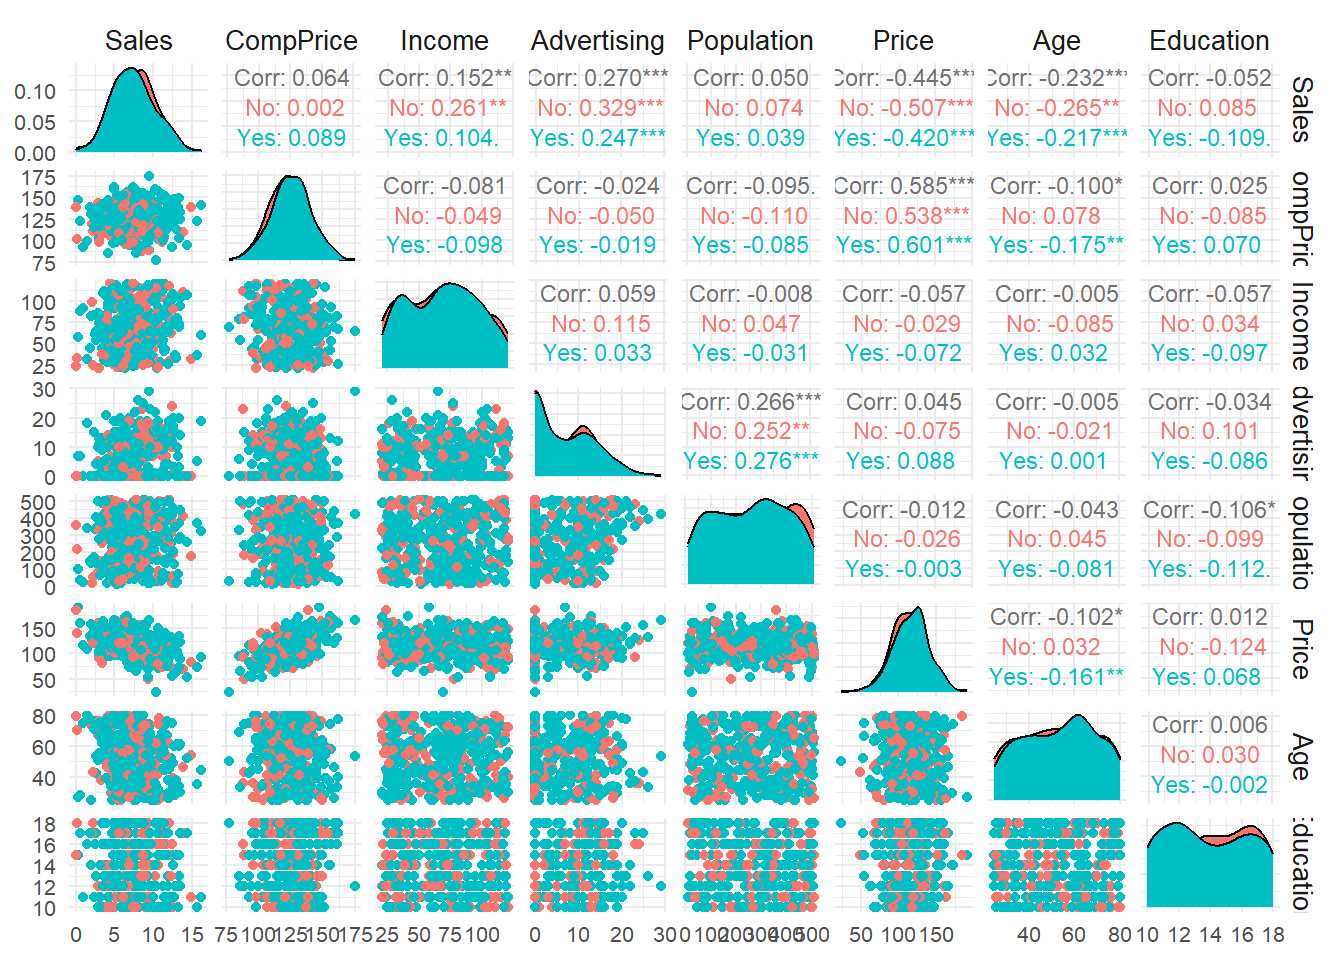
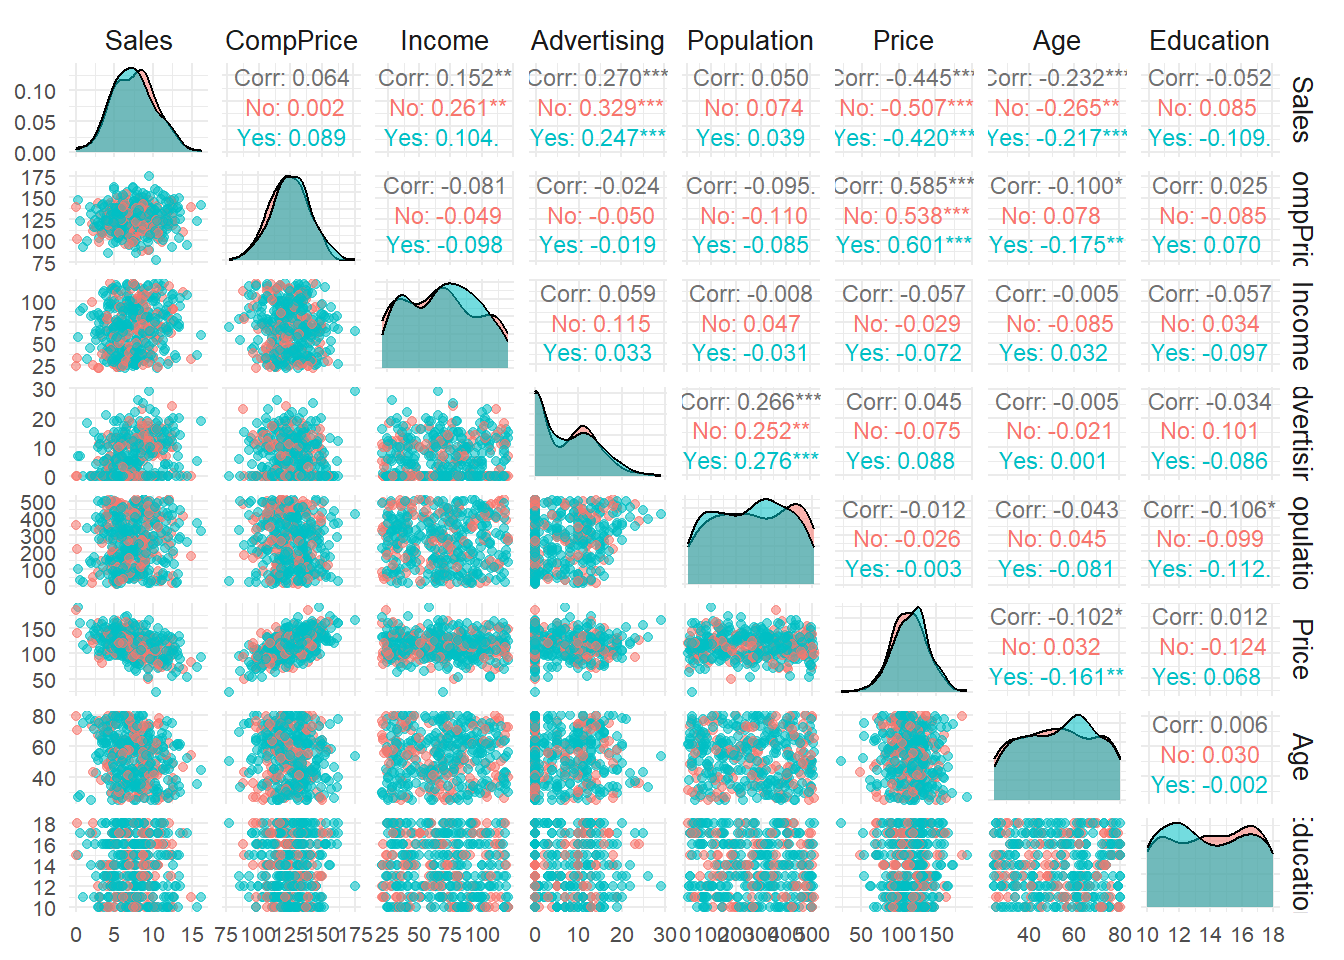
ajustes finais

Changed region(s): [[0.0312, 0.0625, 0.9688, 0.9688]]

diff --git a/Relatorio_Carseats.html b/Relatorio_Carseats.html
@@ -115,7 +115,7 @@ window.Quarto = {
   <li><a href="#análise-exploratória-dos-dados" id="toc-análise-exploratória-dos-dados" class="nav-link" data-scroll-target="#análise-exploratória-dos-dados"><span class="header-section-number">2.1</span> Análise exploratória dos dados</a>
   <ul class="collapse">
   <li><a href="#comentários" id="toc-comentários" class="nav-link" data-scroll-target="#comentários"><span class="header-section-number">2.1.1</span> Comentários:</a></li>
-  <li><a href="#sec-GGally" id="toc-sec-GGally" class="nav-link" data-scroll-target="#sec-GGally"><span class="header-section-number">2.1.2</span> Análise de Correlação</a></li>
+  <li><a href="#análise-de-correlação" id="toc-análise-de-correlação" class="nav-link" data-scroll-target="#análise-de-correlação"><span class="header-section-number">2.1.2</span> Análise de Correlação</a></li>
   </ul></li>
   </ul></li>
   <li><a href="#modelo-1-com-todas-as-variáveis" id="toc-modelo-1-com-todas-as-variáveis" class="nav-link" data-scroll-target="#modelo-1-com-todas-as-variáveis"><span class="header-section-number">3</span> Modelo 1 (Com todas as variáveis)</a>
@@ -131,7 +131,7 @@ window.Quarto = {
   <li><a href="#medida-aic" id="toc-medida-aic" class="nav-link" data-scroll-target="#medida-aic"><span class="header-section-number">4.1</span> Medida AIC</a></li>
   <li><a href="#comparação-de-modelos-encaixados-anova" id="toc-comparação-de-modelos-encaixados-anova" class="nav-link" data-scroll-target="#comparação-de-modelos-encaixados-anova"><span class="header-section-number">4.2</span> Comparação de modelos encaixados (ANOVA)</a></li>
   </ul></li>
-  <li><a href="#modelo-selecionado-modelo6" id="toc-modelo-selecionado-modelo6" class="nav-link" data-scroll-target="#modelo-selecionado-modelo6"><span class="header-section-number">5</span> Modelo selecionado (modelo6)</a>
+  <li><a href="#grafico-outliers" id="toc-grafico-outliers" class="nav-link" data-scroll-target="#grafico-outliers"><span class="header-section-number">5</span> Modelo selecionado (modelo6)</a>
   <ul class="collapse">
   <li><a href="#análises-dos-pressupostos-e-comentários" id="toc-análises-dos-pressupostos-e-comentários" class="nav-link" data-scroll-target="#análises-dos-pressupostos-e-comentários"><span class="header-section-number">5.1</span> Análises dos pressupostos e Comentários</a></li>
   </ul></li>
@@ -207,7 +207,10 @@ window.Quarto = {
 <span id="cb4-2"><a href="#cb4-2" aria-hidden="true" tabindex="-1"></a></span>
 <span id="cb4-3"><a href="#cb4-3" aria-hidden="true" tabindex="-1"></a><span class="fu">write.table</span>(Carseats , <span class="at">file=</span><span class="st">"dados_carseats.csv"</span>, <span class="at">sep=</span><span class="st">";"</span>, <span class="at">dec=</span><span class="st">","</span>) <span class="co">#criando arquivo .csv no local de </span></span></code><button title="Copiar para a área de transferência" class="code-copy-button"><i class="bi"></i></button></pre></div>
 </div>
-<p>Descrição da Base de Dados: Número de observações: 400 Variável Resposta: - <code>Sales</code>: Vendas de cadeirinhas de carro em diferentes locais. (Milhares de unidades)</p>
+<p>Descrição da Base de Dados:<br>
+Número de observações: 400<br>
+Variável Resposta: - <code>Sales</code>: Vendas de cadeirinhas de carro em diferentes locais. (Milhares de unidades)<br>
+</p>
 <p>Variáveis Explicativas: - <code>CompPrice</code>: Preço da cadeirinha na loja concorrente. (em dólares).<br>
 - <code>Income</code>: Renda média dos consumidores naquela região. (em milhares de dólares).<br>
 - <code>Advertising</code>: Valor gasto em publicidade para aquela região (em milhares de dólares).<br>
@@ -456,17 +459,17 @@ window.Quarto = {
 </div>
 <section id="comentários" class="level3" data-number="2.1.1">
 <h3 data-number="2.1.1" class="anchored" data-anchor-id="comentários"><span class="header-section-number">2.1.1</span> Comentários:</h3>
-<p>De acordo com a tabela é possível observar que não há ausência de dados. O conjunto contém tanto as variáveis numéricas (como <code>Sales</code>, <code>CompPrice</code>, <code>Income</code>, <code>Advertising</code>, <code>Population</code>, <code>Price</code>, <code>Age</code>) quanto as categóricas (como <code>ShelveLoc</code>, <code>Urban</code> e <code>US</code>). As variáveis numéricas foram descritas por meio de estatísticas como média, mediana, desvio padrão e percentis, fornecendo uma visão clara sobre sua distribuição.</p>
+<p>De acordo com a tabela é possível observar que não há ausência de dados. O conjunto contém tanto as variáveis numéricas (como <code>Sales</code>, <code>CompPrice</code>, <code>Income</code>, <code>Advertising</code>, <code>Population</code>, <code>Price</code>, <code>Age</code>) quanto as categóricas (como <code>ShelveLoc</code>, <code>Urban</code> e <code>US</code>). As variáveis numéricas foram descritas por meio de estatísticas como média, mediana, desvio padrão e percentis, fornecendo uma visão clara sobre sua distribuição. Em relação aos outliers, eles podem ser observados no gráfico <em>Residuals vs Leverage</em> <a href="#grafico-outliers">grafico-outliers</a>.</p>
 </section>
-<section id="sec-GGally" class="level3" data-number="2.1.2">
-<h3 data-number="2.1.2" class="anchored" data-anchor-id="sec-GGally"><span class="header-section-number">2.1.2</span> Análise de Correlação</h3>
+<section id="análise-de-correlação" class="level3" data-number="2.1.2">
+<h3 data-number="2.1.2" class="anchored" data-anchor-id="análise-de-correlação"><span class="header-section-number">2.1.2</span> Análise de Correlação</h3>
 <div class="cell">
 <div class="sourceCode cell-code" id="cb6"><pre class="sourceCode r code-with-copy"><code class="sourceCode r"><span id="cb6-1"><a href="#cb6-1" aria-hidden="true" tabindex="-1"></a><span class="fu">install.packages</span>(<span class="st">"GGally"</span>, <span class="at">quite=</span><span class="cn">TRUE</span>)</span></code><button title="Copiar para a área de transferência" class="code-copy-button"><i class="bi"></i></button></pre></div>
 <div class="cell-output cell-output-stdout">
 <pre><code>package 'GGally' successfully unpacked and MD5 sums checked
 
 The downloaded binary packages are in
-    C:\Users\Notebook\AppData\Local\Temp\Rtmp2h3han\downloaded_packages</code></pre>
+    C:\Users\Notebook\AppData\Local\Temp\RtmpIXBvVI\downloaded_packages</code></pre>
 </div>
 <div class="sourceCode cell-code" id="cb8"><pre class="sourceCode r code-with-copy"><code class="sourceCode r"><span id="cb8-1"><a href="#cb8-1" aria-hidden="true" tabindex="-1"></a><span class="fu">library</span>(GGally)<span class="co"># Pacote para função ggpairs</span></span>
 <span id="cb8-2"><a href="#cb8-2" aria-hidden="true" tabindex="-1"></a><span class="fu">library</span>(ggplot2)</span>
@@ -476,7 +479,7 @@ The downloaded binary packages are in
 <span id="cb8-6"><a href="#cb8-6" aria-hidden="true" tabindex="-1"></a></span>
 <span id="cb8-7"><a href="#cb8-7" aria-hidden="true" tabindex="-1"></a>graf1 <span class="ot">&lt;-</span> <span class="fu">ggpairs</span>(dados, </span>
 <span id="cb8-8"><a href="#cb8-8" aria-hidden="true" tabindex="-1"></a>                 <span class="at">columns =</span> <span class="fu">c</span>(<span class="st">"Sales"</span>, <span class="st">"CompPrice"</span>, <span class="st">"Income"</span>, <span class="st">"Advertising"</span>, <span class="st">"Population"</span>, <span class="st">"Price"</span>, <span class="st">"Age"</span>, <span class="st">"Education"</span>), </span>
-<span id="cb8-9"><a href="#cb8-9" aria-hidden="true" tabindex="-1"></a>                 ggplot2<span class="sc">::</span><span class="fu">aes</span>(<span class="at">colour=</span>US), </span>
+<span id="cb8-9"><a href="#cb8-9" aria-hidden="true" tabindex="-1"></a>                 ggplot2<span class="sc">::</span><span class="fu">aes</span>(<span class="at">colour=</span>US, <span class="at">alpha =</span> <span class="fl">0.4</span>),</span>
 <span id="cb8-10"><a href="#cb8-10" aria-hidden="true" tabindex="-1"></a>                 <span class="at">upper =</span> <span class="fu">list</span>(<span class="at">continuous =</span> <span class="fu">wrap</span>(<span class="st">"cor"</span>, <span class="at">size =</span> <span class="dv">3</span>)), </span>
 <span id="cb8-11"><a href="#cb8-11" aria-hidden="true" tabindex="-1"></a>                 <span class="at">lower =</span> <span class="fu">list</span>(<span class="at">continuous =</span> <span class="st">"points"</span>)) <span class="sc">+</span>            </span>
 <span id="cb8-12"><a href="#cb8-12" aria-hidden="true" tabindex="-1"></a>  <span class="fu">theme_minimal</span>() <span class="sc">+</span>                                              </span>
@@ -496,7 +499,7 @@ The downloaded binary packages are in
 <span id="cb9-2"><a href="#cb9-2" aria-hidden="true" tabindex="-1"></a></span>
 <span id="cb9-3"><a href="#cb9-3" aria-hidden="true" tabindex="-1"></a>graf2 <span class="ot">&lt;-</span> <span class="fu">ggpairs</span>(dados, </span>
 <span id="cb9-4"><a href="#cb9-4" aria-hidden="true" tabindex="-1"></a>                 <span class="at">columns =</span> <span class="fu">c</span>(<span class="st">"Sales"</span>, <span class="st">"CompPrice"</span>, <span class="st">"Income"</span>, <span class="st">"Advertising"</span>, <span class="st">"Population"</span>, <span class="st">"Price"</span>, <span class="st">"Age"</span>, <span class="st">"Education"</span>), </span>
-<span id="cb9-5"><a href="#cb9-5" aria-hidden="true" tabindex="-1"></a>                 ggplot2<span class="sc">::</span><span class="fu">aes</span>(<span class="at">colour=</span>Urban), </span>
+<span id="cb9-5"><a href="#cb9-5" aria-hidden="true" tabindex="-1"></a>                 ggplot2<span class="sc">::</span><span class="fu">aes</span>(<span class="at">colour=</span>Urban, <span class="at">alpha =</span> <span class="fl">0.4</span>), </span>
 <span id="cb9-6"><a href="#cb9-6" aria-hidden="true" tabindex="-1"></a>                 <span class="at">upper =</span> <span class="fu">list</span>(<span class="at">continuous =</span> <span class="fu">wrap</span>(<span class="st">"cor"</span>, <span class="at">size =</span> <span class="dv">3</span>)), </span>
 <span id="cb9-7"><a href="#cb9-7" aria-hidden="true" tabindex="-1"></a>                 <span class="at">lower =</span> <span class="fu">list</span>(<span class="at">continuous =</span> <span class="st">"points"</span>)) <span class="sc">+</span>            </span>
 <span id="cb9-8"><a href="#cb9-8" aria-hidden="true" tabindex="-1"></a>  <span class="fu">theme_minimal</span>() <span class="sc">+</span>                                              </span>
@@ -516,7 +519,7 @@ The downloaded binary packages are in
 <span id="cb10-2"><a href="#cb10-2" aria-hidden="true" tabindex="-1"></a></span>
 <span id="cb10-3"><a href="#cb10-3" aria-hidden="true" tabindex="-1"></a>graf3 <span class="ot">&lt;-</span> <span class="fu">ggpairs</span>(dados, </span>
 <span id="cb10-4"><a href="#cb10-4" aria-hidden="true" tabindex="-1"></a>                 <span class="at">columns =</span> <span class="fu">c</span>(<span class="st">"Sales"</span>, <span class="st">"CompPrice"</span>, <span class="st">"Income"</span>, <span class="st">"Advertising"</span>, <span class="st">"Population"</span>, <span class="st">"Price"</span>, <span class="st">"Age"</span>, <span class="st">"Education"</span>), </span>
-<span id="cb10-5"><a href="#cb10-5" aria-hidden="true" tabindex="-1"></a>                 ggplot2<span class="sc">::</span><span class="fu">aes</span>(<span class="at">colour=</span>ShelveLoc), </span>
+<span id="cb10-5"><a href="#cb10-5" aria-hidden="true" tabindex="-1"></a>                 ggplot2<span class="sc">::</span><span class="fu">aes</span>(<span class="at">colour=</span>ShelveLoc, <span class="at">alpha =</span> <span class="fl">0.4</span>), </span>
 <span id="cb10-6"><a href="#cb10-6" aria-hidden="true" tabindex="-1"></a>                 <span class="at">upper =</span> <span class="fu">list</span>(<span class="at">continuous =</span> <span class="fu">wrap</span>(<span class="st">"cor"</span>, <span class="at">size =</span> <span class="dv">3</span>)), </span>
 <span id="cb10-7"><a href="#cb10-7" aria-hidden="true" tabindex="-1"></a>                 <span class="at">lower =</span> <span class="fu">list</span>(<span class="at">continuous =</span> <span class="st">"points"</span>)) <span class="sc">+</span>            </span>
 <span id="cb10-8"><a href="#cb10-8" aria-hidden="true" tabindex="-1"></a>  <span class="fu">theme_minimal</span>() <span class="sc">+</span>                                              </span>
@@ -888,7 +891,7 @@ Model 2: Sales ~ CompPrice + Income + Advertising + Population + Price +
 <p>O teste ANOVA indica que a diferença entre os dois modelos não é estatisticamente significativa (p = 0.358), sugerindo que o modelo mais simples (modelo6), sem essas variáveis adicionais, é preferível por ser mais mais simples e possuir a mesma capacidade de ajuste. Assim, o modelo 6 é o mais adequado, pois não há ganho significativo ao adicionar as variáveis extras, e isso ajuda a evitar a complexidade desnecessária.</p>
 </section>
 </section>
-<section id="modelo-selecionado-modelo6" class="level1" data-number="5">
+<section id="grafico-outliers" class="level1" data-number="5">
 <h1 data-number="5"><span class="header-section-number">5</span> Modelo selecionado (modelo6)</h1>
 <div class="cell">
 <div class="sourceCode cell-code" id="cb40"><pre class="sourceCode r code-with-copy"><code class="sourceCode r"><span id="cb40-1"><a href="#cb40-1" aria-hidden="true" tabindex="-1"></a><span class="fu">plot</span>(modelo6)</span></code><button title="Copiar para a área de transferência" class="code-copy-button"><i class="bi"></i></button></pre></div>
@@ -926,7 +929,7 @@ Model 2: Sales ~ CompPrice + Income + Advertising + Population + Price +
 <p>Pode-se observar no primeiro gráfico <em>Residuals vs Fitted</em> que o modelo apresenta uma boa linearidade, já que a linha vermelha indica uma relação linear quando está próxima da linha cinza.</p>
 <p>No gráfico <em>Q-Q Residuals</em> pode-se notar que os erros têm uma distribuição aproximadamente normal, já que os pontos estão próximos à linha pontilhada.</p>
 <p>No gráfico do <em>Scale-Location</em> é possível observar que a variância dos resíduos é constante ao longo dos valores ajustados, o que indica que a suposição de homocedasticidade foi atendida.</p>
-<p>No gráfico do <em>Residuals vs Leverage</em> os outliers identificados foram os pontos 248 e 358, com resíduos padronizados significativos, indicando que eles podem estar influenciando o ajuste do modelo. O ponto 357 também merece atenção, mas não é tão extremo quanto os outros.</p>
+<p>No gráfico do <em>Residuals vs Leverage</em> o outlier identificado foi o ponto 358, com resíduos padronizados significativos, indicando que ele pode estar influenciando o ajuste do modelo. O ponto 357 também merece atenção, mas não é tão extremo quanto o outro.</p>
 </section>
 </section>
 <section id="interpretações-do-modelo-selecionado" class="level1" data-number="6">
@@ -1043,8 +1046,6 @@ Standardized Coefficients::
 <span id="cb47-6"><a href="#cb47-6" aria-hidden="true" tabindex="-1"></a>                                <span class="at">ShelveLoc =</span> <span class="fu">factor</span>(<span class="fu">c</span>(<span class="st">"Good"</span>, <span class="st">"Medium"</span>)), </span>
 <span id="cb47-7"><a href="#cb47-7" aria-hidden="true" tabindex="-1"></a>                                <span class="at">Age =</span> <span class="fu">c</span>(<span class="dv">20</span>, <span class="dv">30</span>))</span></code><button title="Copiar para a área de transferência" class="code-copy-button"><i class="bi"></i></button></pre></div>
 </div>
-<p><strong>Observação</strong>:</p>
-<p>O data.frame <code>novas.preditoras</code> com os novos valores das variáveis preditoras deve ser construído com os mesmos nomes das variáveis preditoras utilizadas no objeto que contém o modelo ajustado.</p>
 <section id="intervalo-de-confiança" class="level2" data-number="7.1">
 <h2 data-number="7.1" class="anchored" data-anchor-id="intervalo-de-confiança"><span class="header-section-number">7.1</span> Intervalo de Confiança</h2>
 <p>Um <strong>intervalo de confiança</strong> captura a incerteza em torno dos <strong>valores médios (valores esperados)</strong> preditos.</p>
